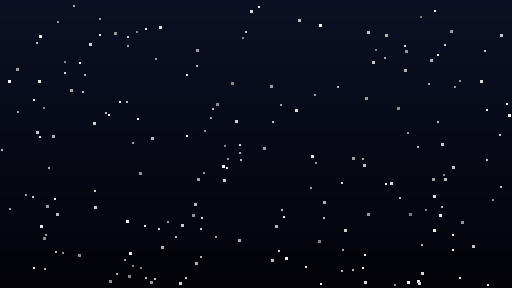
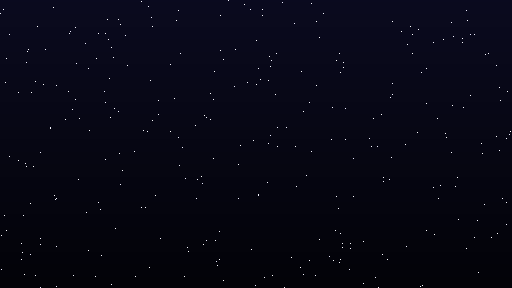
Smaller 1px stars + roadmap update for Iter 3 polish
Regenerated background.png with 1x1 pixel stars (was 2x2),
varying alpha, blue-white tint, navy→black gradient.
Updated roadmap to reflect Iter 3 polish pass (stat propagation,
pooling, Braking stat, trail colors, 232 tests).

Changed region(s): [[0.8438, 0.5938, 0.875, 0.625], [0.8125, 0.9688, 0.8438, 1.0]]

diff --git a/docs/superpowers/roadmap.md b/docs/superpowers/roadmap.md
@@ -1,6 +1,6 @@
 # Meteor Idle — Iteration Roadmap
 
-Living document. Last revised: 2026-04-12 (Iter 3 shipped).
+Living document. Last revised: 2026-04-12 (Iter 3 + polish shipped).
 
 This is the ordered plan for the next several iterations, pulled from `todo.md` (sections above `# Future`). Each iteration is a branch (`iter/<name>`) with its own spec + plan when it's large enough to warrant one. Sized for the project's per-branch overhead (tests, play verify, code-reviewer, WebGL deploy).
 
@@ -139,16 +139,24 @@ All prices flattened to **$1 per purchase** (baseCost=1, costGrowth=1) across al
 
 ### Test coverage
 
-189 EditMode + 42 PlayMode = 231 tests, all green. New tests: DroneBody physics, state machine transitions (including Delivering/Depositing flow), DroneStats/BayStats formulas, DroneBay door animation, CoreDrop lifecycle, paysOnBreak isolation, GameManager drop registry, Meteor core-drop spawning, end-to-end drone collection, drone meteor avoidance.
+190 EditMode + 42 PlayMode = 232 tests, all green. New tests: DroneBody physics, state machine transitions (including Delivering/Depositing flow), DroneStats/BayStats formulas, DroneBay door animation, CoreDrop lifecycle, paysOnBreak isolation, GameManager drop registry, Meteor core-drop spawning, end-to-end drone collection, drone meteor avoidance.
 
-### Deferred items (known gaps from code review)
+### Polish pass (same branch, shipped same day)
 
-- Drone stat upgrades (Thrust, Battery, Cargo) don't propagate to existing drones — only affects new spawns.
-- Battery recharge ignores ReloadSpeed upgrade (hardcoded `battery += dt`).
-- ThrusterTrail and CoreDrop use Instantiate/Destroy, not pooling — GC pressure at high drone/drop counts.
-- Bay drone count TMP label not yet wired in DroneBay prefab.
-- `BuildBayPanel.cs` is dead code (bays are pre-built, no purchasing).
-- Collector upgrades (deposit multiplier, attraction range) stub exists but no panel yet.
+All deferred items from code review were addressed:
+
+- **Stat propagation to existing drones** — `BayManager` subscribes to `droneStats.OnChanged`, calls non-destructive `CollectorDrone.UpdateStats()` that hot-swaps thrust/damping/battery/cargo without resetting state or position.
+- **ReloadSpeed affects recharge** — `ICollectorDroneEnvironment.ReloadSpeed` property, `DroneBay` implements it, `CollectorDrone.TickIdle` uses `battery += dt * env.ReloadSpeed`.
+- **Braking upgrade stat added** — `DroneStats` now has 4 stats (Thrust, BatteryCapacity, CargoCapacity, Braking). Damping=2 at base gives responsive stops without killing speed.
+- **ThrusterTrail pooling** — static `Queue<TrailParticle>` replaces per-particle `new GameObject()` / `Destroy()`.
+- **CoreDrop pooling** — `SimplePool<CoreDrop>` on `GameManager`, `LateUpdate` returns dead drops to pool (fixed leak where offscreen despawn skipped Release).
+- **Unique trail color per drone** — static 6-color palette, all 4 arms same color, auto-assigned on Awake.
+- **Bay drone count TMP label** wired in DroneBay prefab.
+- **`BuildBayPanel.cs` deleted** (dead code).
+
+### Deferred to Iter 4
+
+- Collector upgrades (deposit multiplier, attraction range) — `IPointerClickHandler` stub wired, no panel yet.
 
 ---
 
